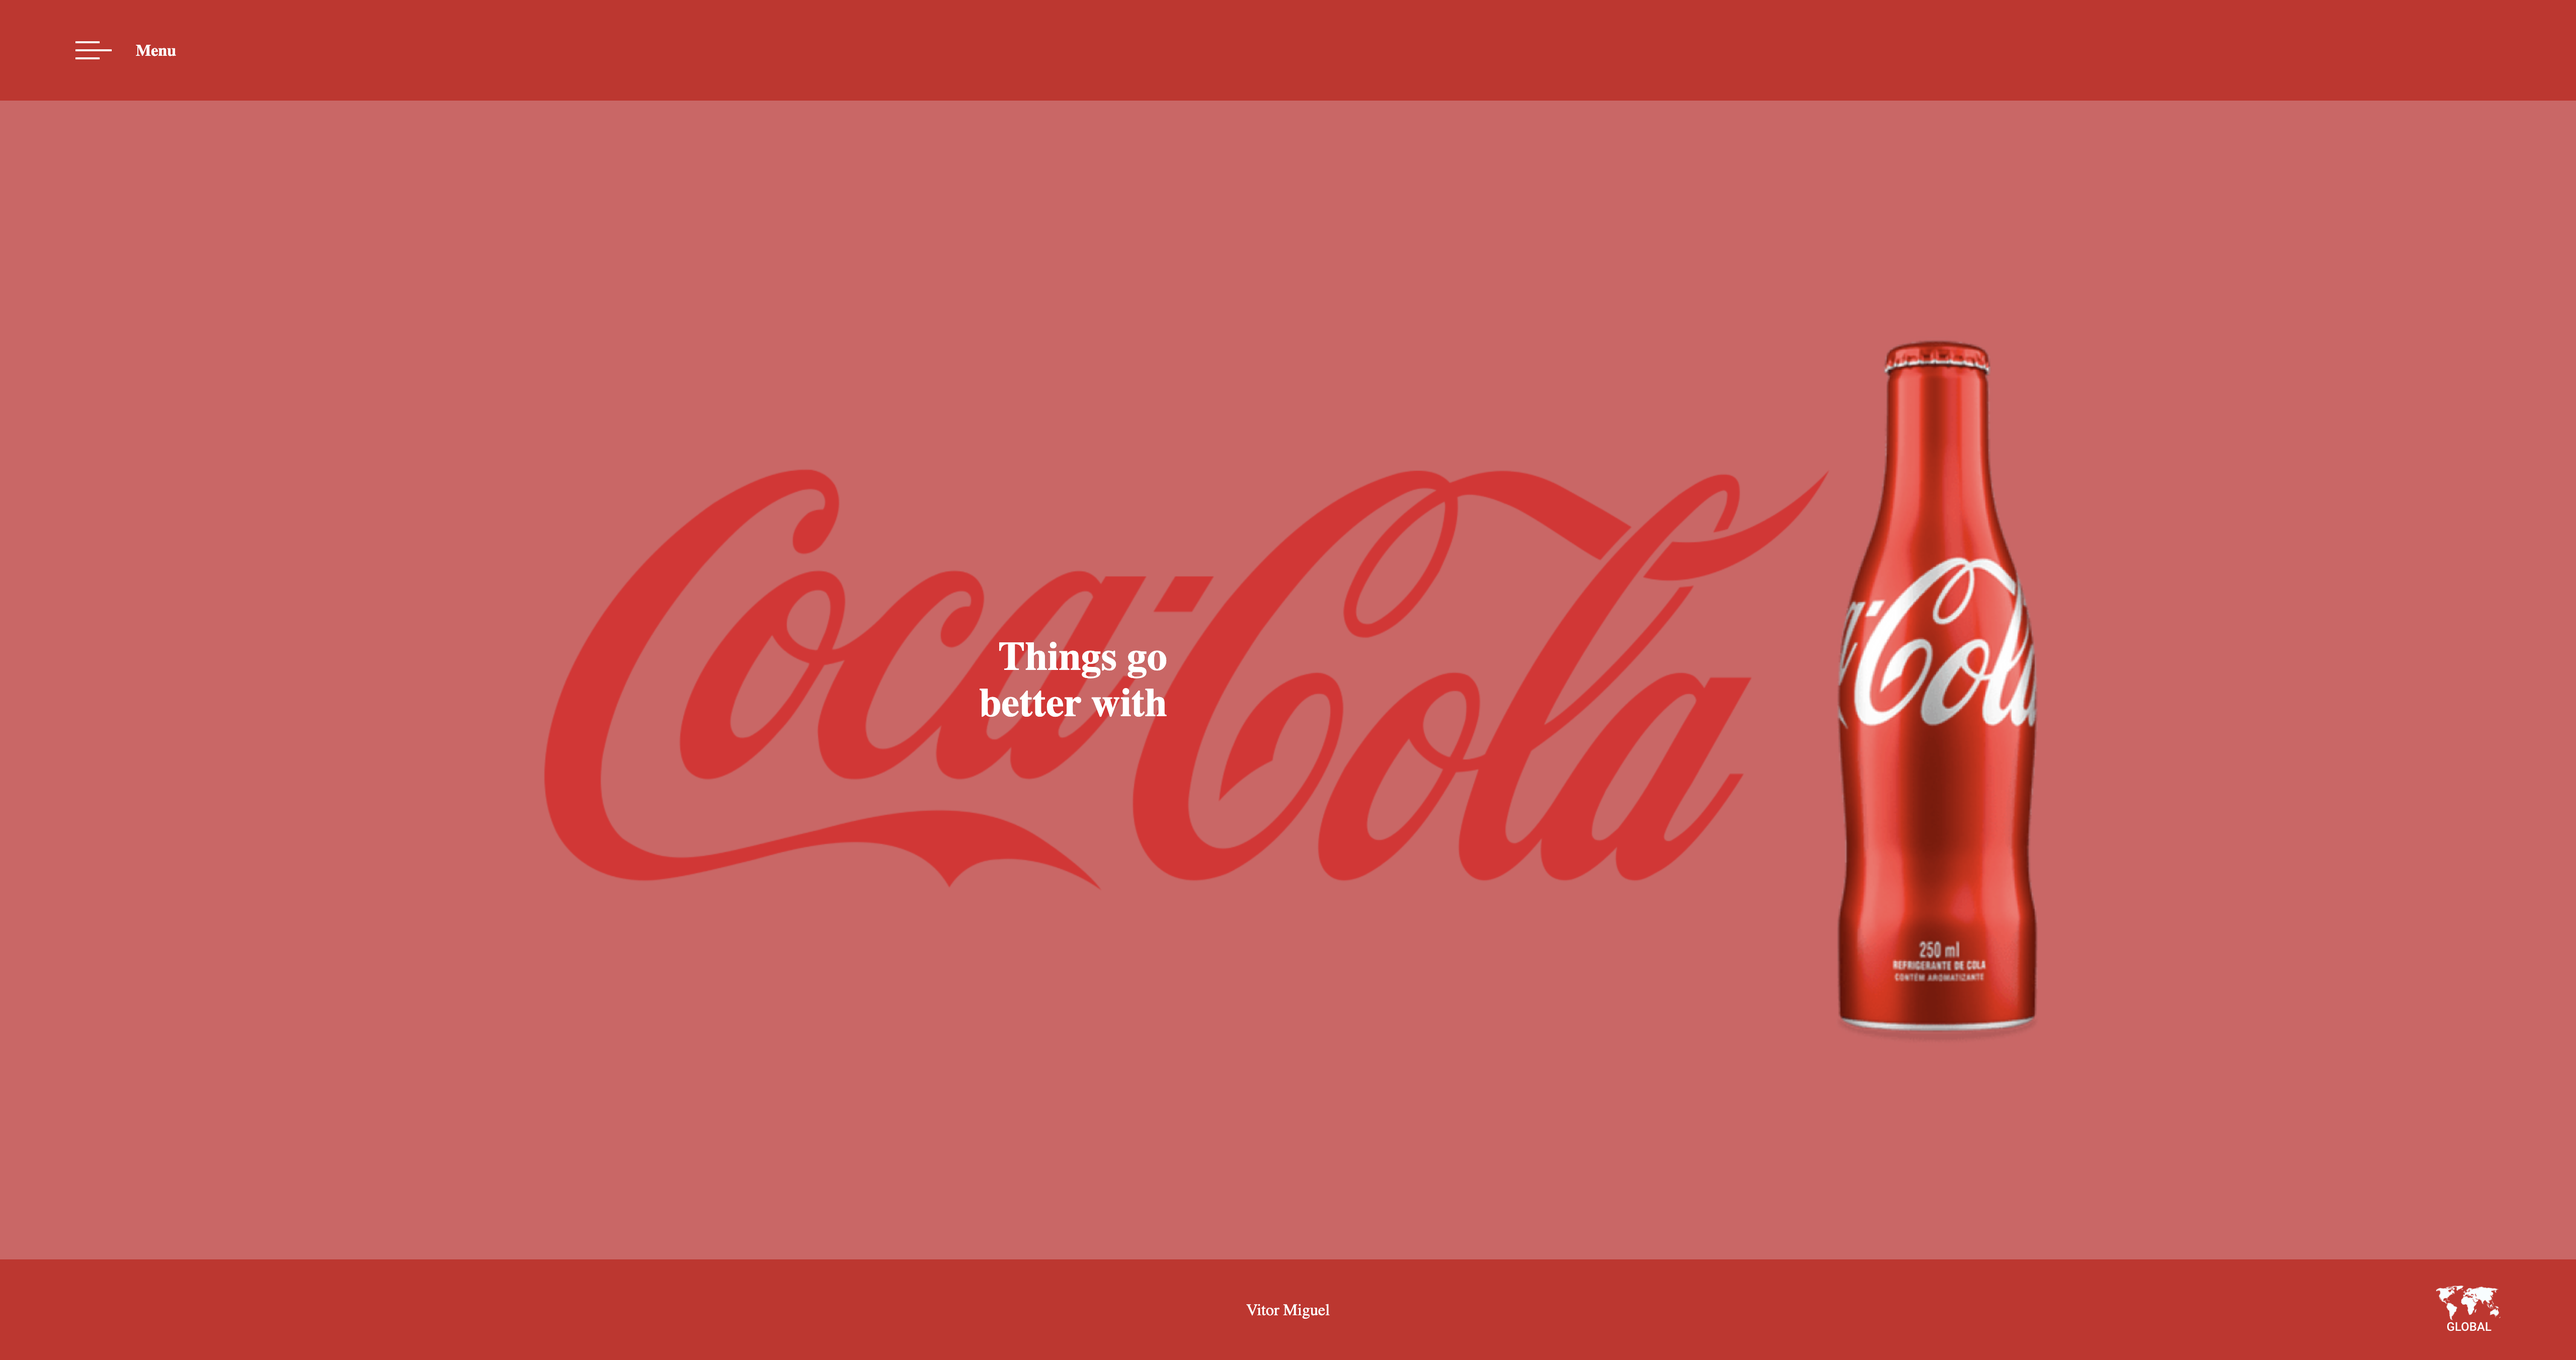
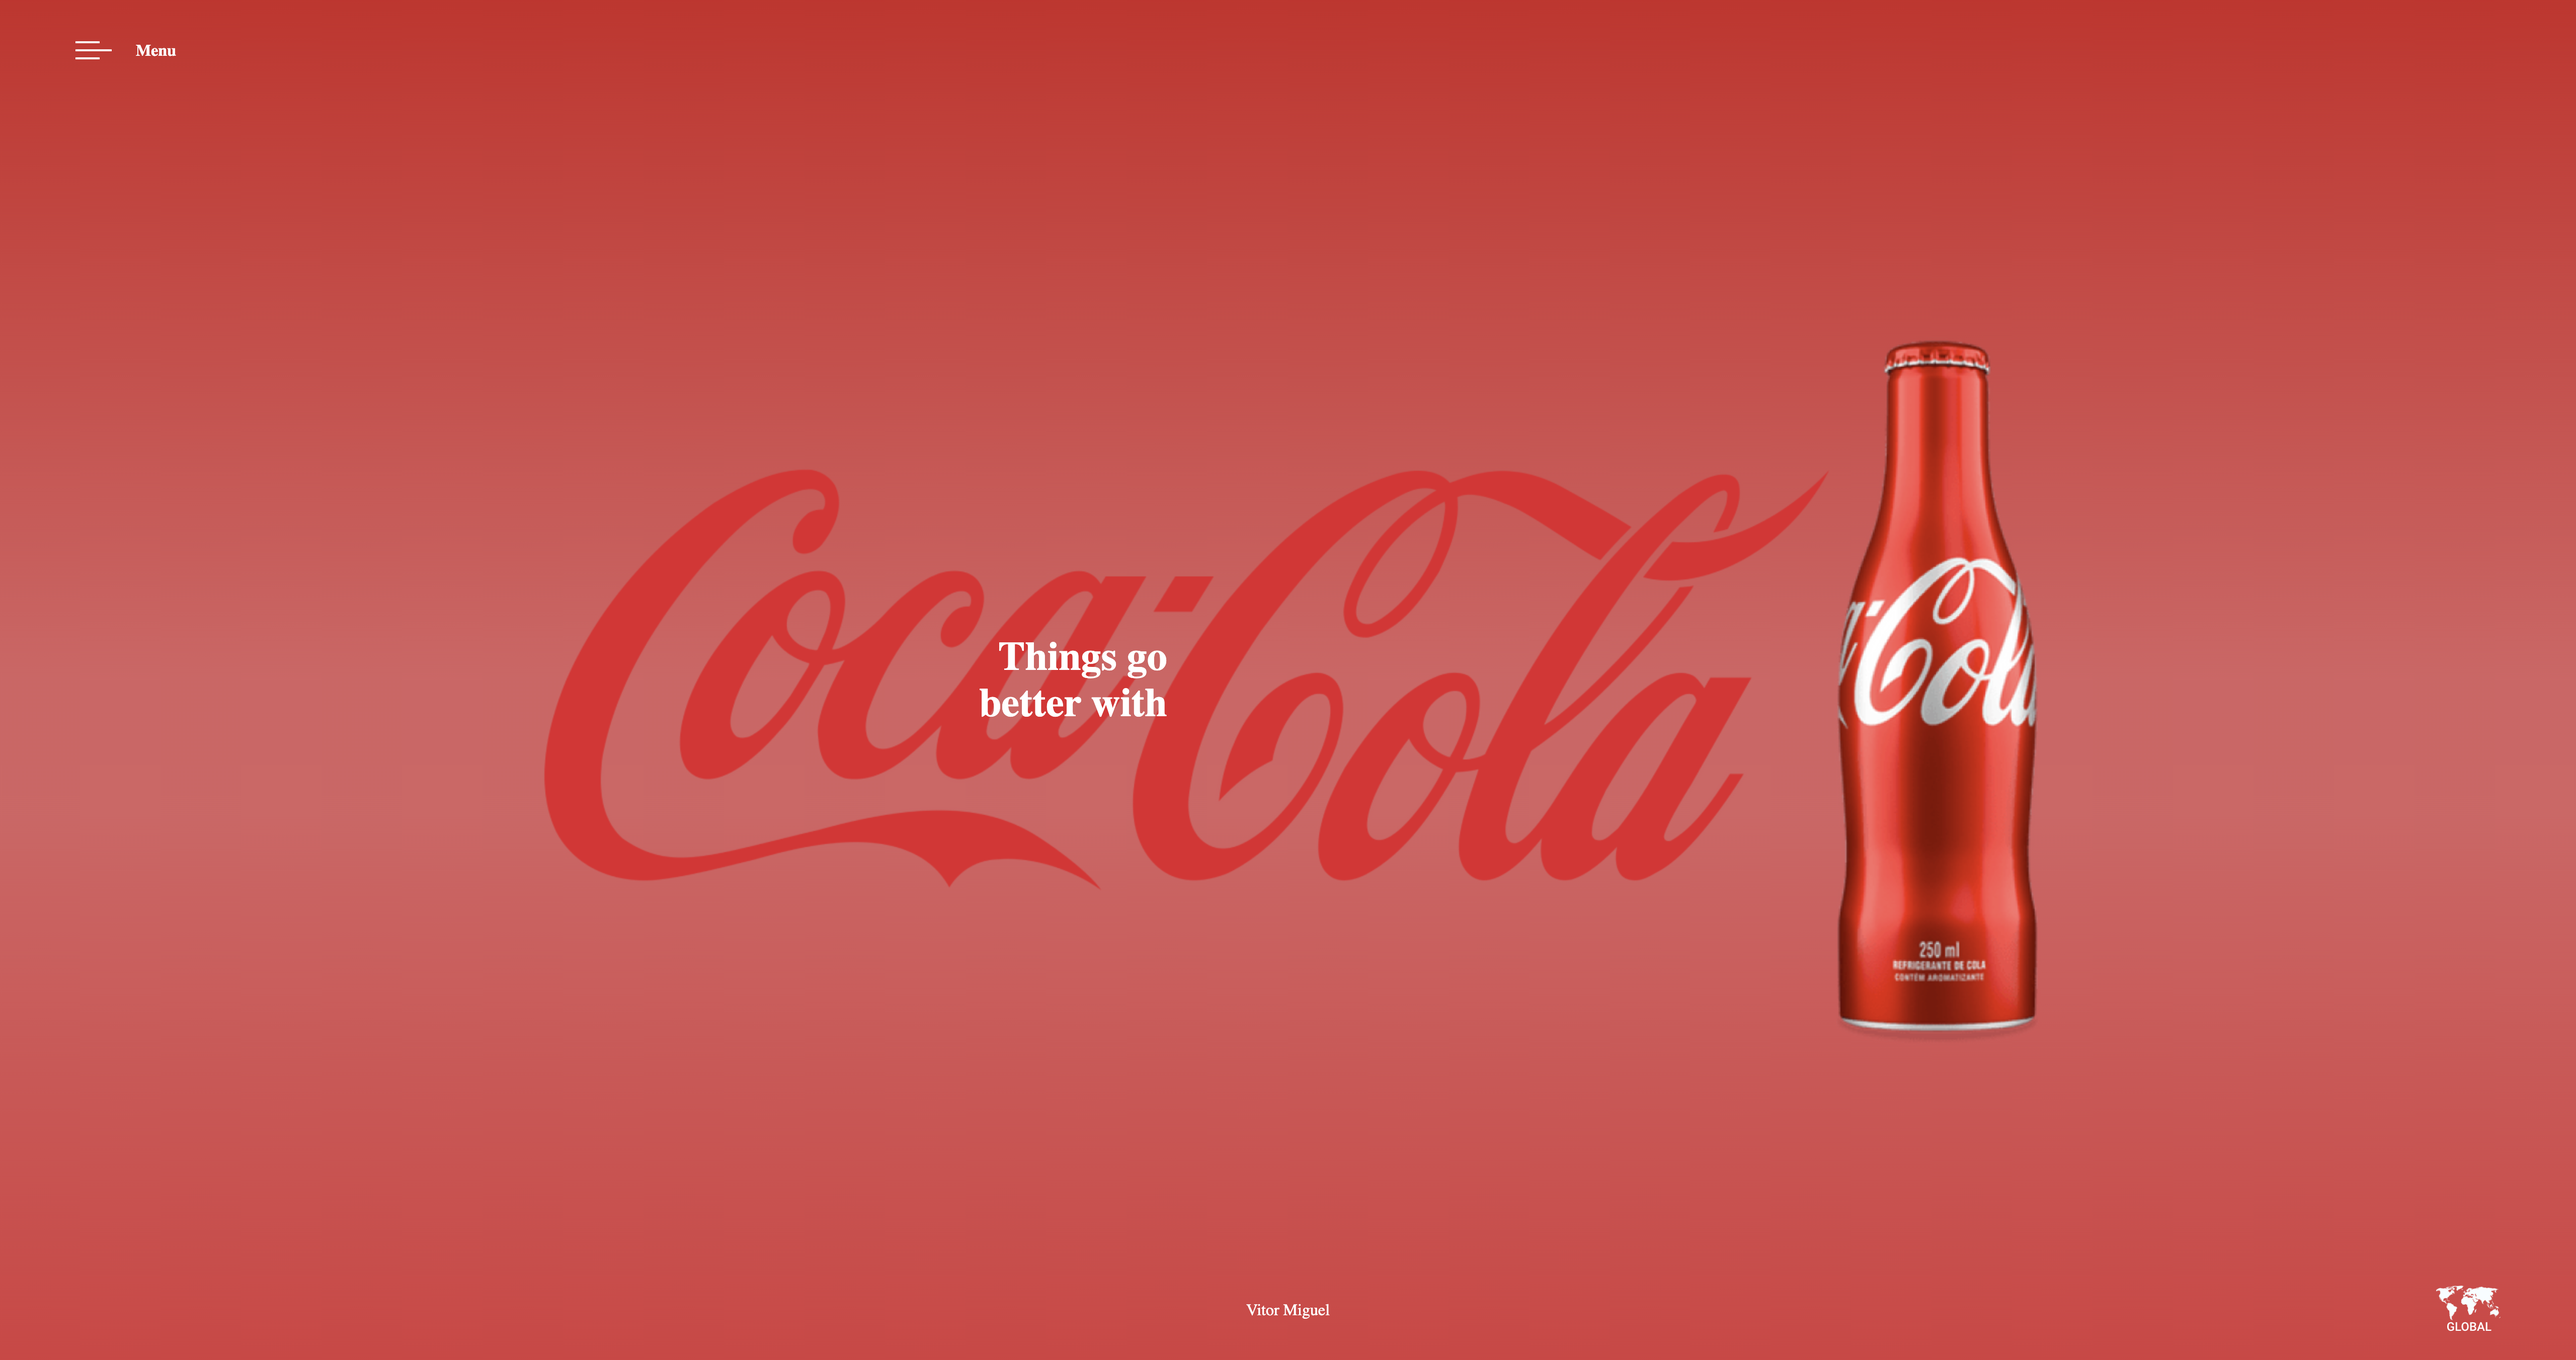
Correção de bugs

Changed region(s): [[0.0, 0.0621, 1.0, 0.2796], [0.0, 0.9009, 1.0, 0.963]]

diff --git a/index.html b/index.html
@@ -12,7 +12,7 @@
         <span>Menu</span>
     </header>
     <main>
-        <img src="./img/background-image.png" alt="background-image">
+        <img src="./img/background-image.png" alt="logo da coca-cola" class="background-logo">
         <h2 class="content-text">Things go better with</h2>
         <img src="./img/coca-cola.png" alt="content-image">
     </main>

diff --git a/style.css b/style.css
@@ -13,7 +13,6 @@ body {
 
 header, footer {
     height: 100px;
-    background-color: #CF2425;
     color: #FFFFFF;
     display: flex;
     align-items: center;
@@ -26,7 +25,6 @@ main {
     display: flex;
     justify-content: center;
     align-items: center;
-    background-color: #DA6062;
 }
 
 header {
